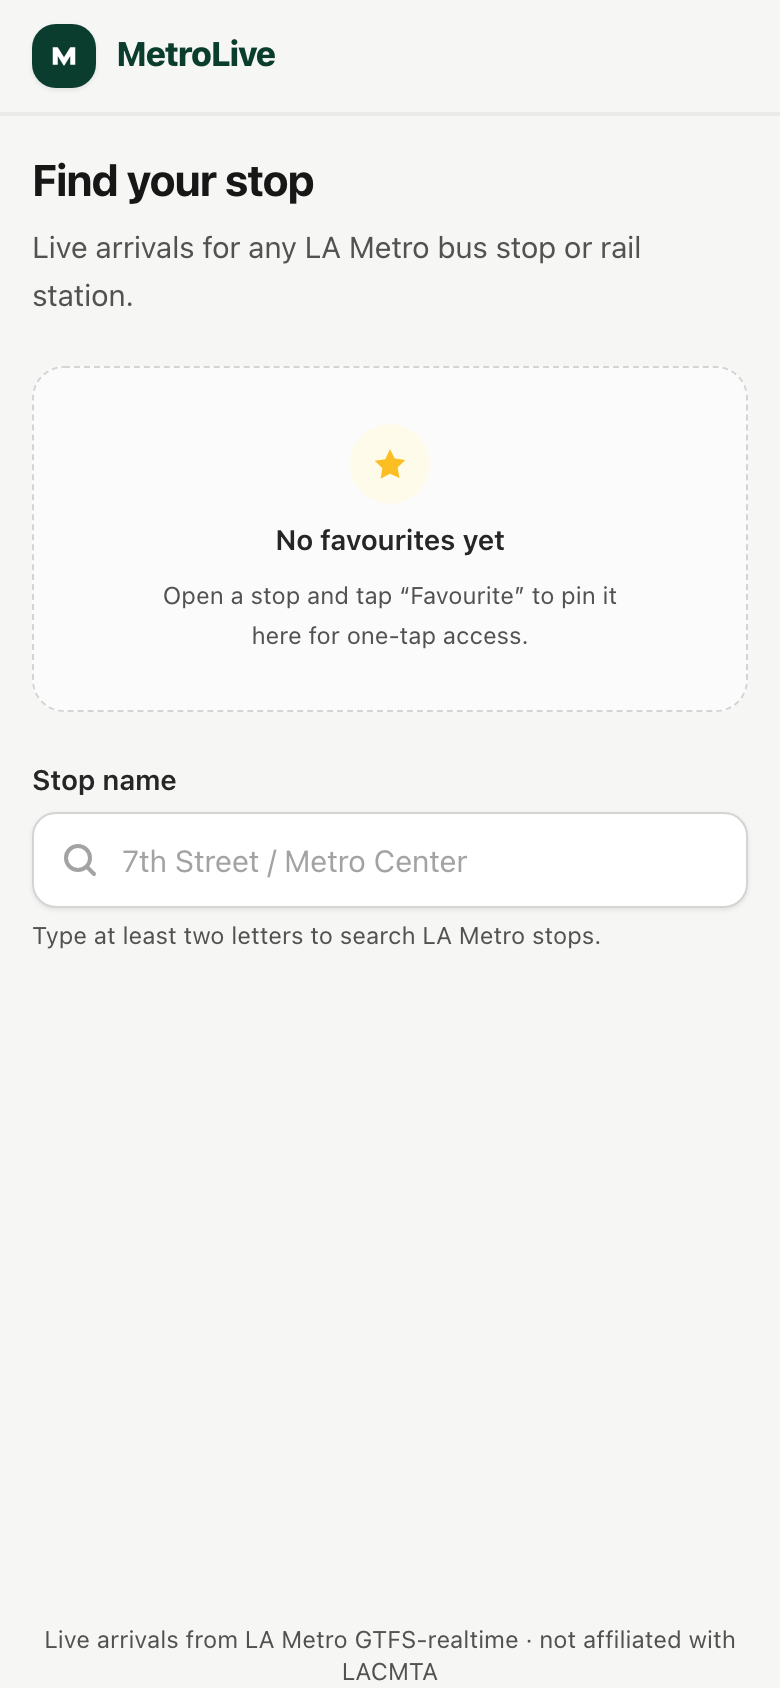
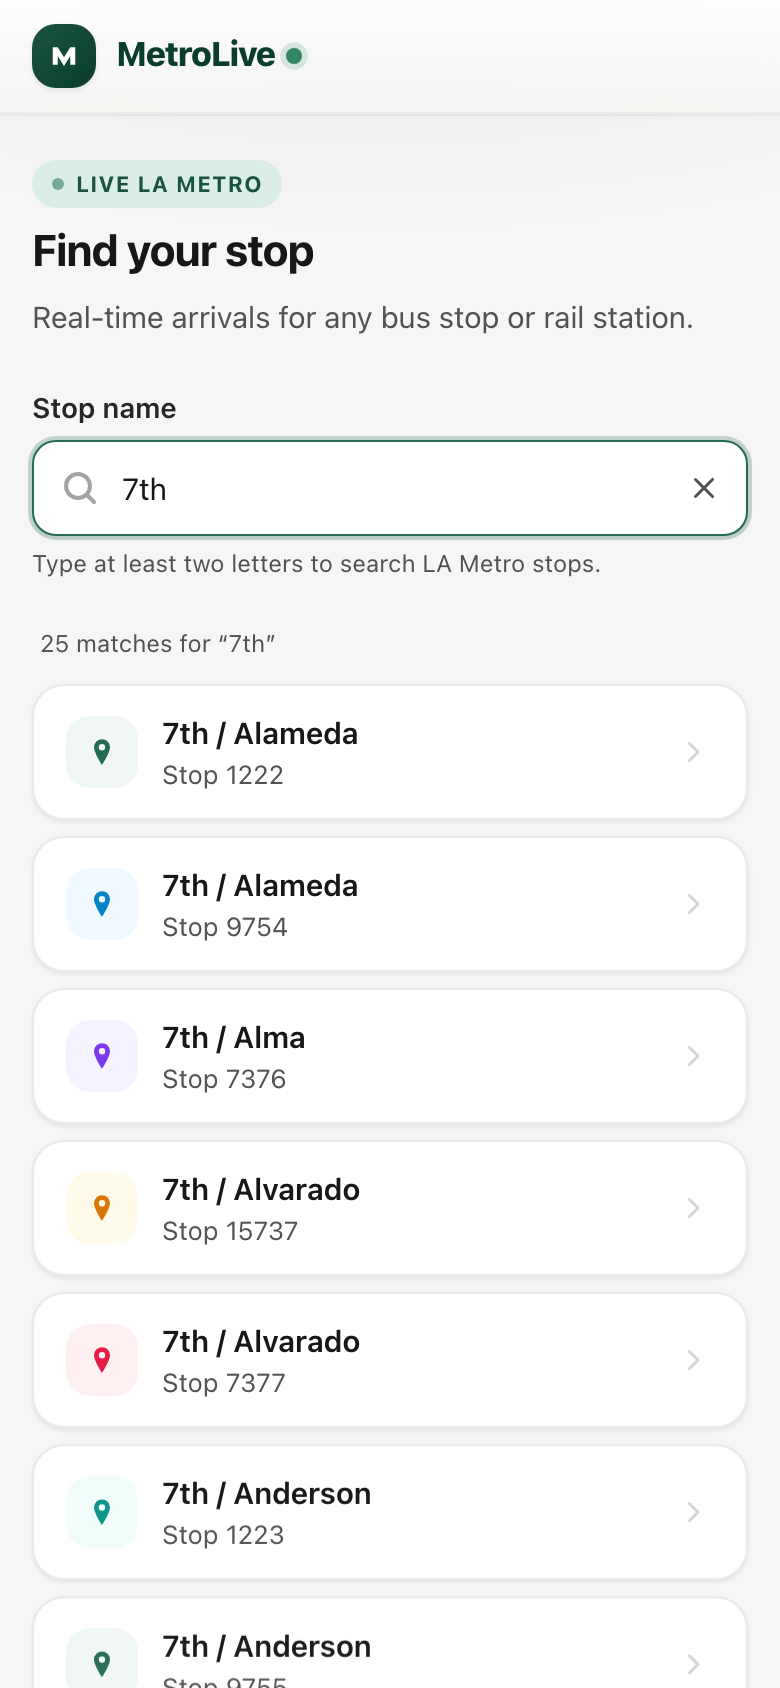
Add colour & motion: status accents, staggered lists, live pulse
Colour now carries meaning, kept soft:
- Each arrival row gets a coloured left accent bar by status
  (rose/emerald/sky/neutral); status pills regain their dot.
- Countdown turns brand-green when a vehicle is <= 3 min away.
- Search-result pins cycle through six pastel tints for visual rhythm.
- Header logo is a subtle brand gradient; primary Button is a soft
  gradient; a "Live LA Metro" pill + a pulsing dot by the wordmark.
- Faint brand radial glow behind the page header.

Motion (all disabled under prefers-reduced-motion):
- Shimmering skeleton rows for the arrivals first-load (replaces the
  spinner card; keeps an sr-only "Loading arrivals…").
- Staggered rise-in for search results, favourites, and arrival rows.
- Card hover lift + chevron nudge; button/favourite press scale;
  star "pop" when a stop is favourited.

New: src/components/Skeleton.tsx. tailwind: rise/pop/shimmer/pulse-soft
keyframes, card-hover shadow. Lighthouse unchanged (100/99 perf,
100/100 a11y, 100 BP/SEO, CLS 0). 78 tests + e2e green.

diff --git a/src/routes/RootLayout.tsx b/src/routes/RootLayout.tsx
@@ -4,7 +4,7 @@ function LogoMark() {
   return (
     <span
       aria-hidden="true"
-      className="grid h-8 w-8 place-items-center rounded-xl bg-brand-900 text-white shadow-card"
+      className="grid h-8 w-8 place-items-center rounded-xl bg-gradient-to-br from-brand-700 to-brand-900 text-white shadow-card"
     >
       <svg viewBox="0 0 32 32" className="h-5 w-5" fill="currentColor" aria-hidden="true">
         <path d="M7 23V9h4l5 8 5-8h4v14h-4v-7l-5 8-5-8v7z" />
@@ -13,9 +13,24 @@ function LogoMark() {
   );
 }
 
+function LiveDot() {
+  return (
+    <span className="relative ml-1.5 flex h-2 w-2" title="Live data">
+      <span className="absolute inline-flex h-full w-full animate-ping rounded-full bg-brand-400 opacity-75" />
+      <span className="relative inline-flex h-2 w-2 rounded-full bg-brand-500" />
+      <span className="sr-only">live</span>
+    </span>
+  );
+}
+
 export function RootLayout() {
   return (
-    <div className="flex min-h-dvh flex-col bg-page">
+    <div className="relative flex min-h-dvh flex-col bg-page">
+      <div
+        aria-hidden="true"
+        className="pointer-events-none absolute inset-x-0 top-0 h-72 bg-[radial-gradient(42rem_20rem_at_50%_-7rem,rgba(37,107,82,0.12),transparent_72%)]"
+      />
+
       <a
         href="#main"
         className="sr-only focus:not-sr-only focus:absolute focus:left-3 focus:top-3 focus:z-30 focus:rounded-lg focus:bg-brand-900 focus:px-3 focus:py-2 focus:text-sm focus:font-semibold focus:text-white"
@@ -23,21 +38,22 @@ export function RootLayout() {
         Skip to content
       </a>
 
-      <header className="safe-t sticky top-0 z-20 border-b border-neutral-200/70 bg-page/80 shadow-header backdrop-blur-md">
-        <div className="mx-auto flex w-full max-w-md items-center gap-2.5 px-4 py-3">
+      <header className="safe-t sticky top-0 z-20 border-b border-neutral-200/70 bg-gradient-to-b from-white/85 to-page/70 shadow-header backdrop-blur-md">
+        <div className="mx-auto flex w-full max-w-md items-center px-4 py-3">
           <Link
             to="/"
             className="flex items-center gap-2.5 rounded-lg focus-visible:ring-2 focus-visible:ring-brand-600 focus-visible:ring-offset-2"
           >
             <LogoMark />
-            <span className="text-[1.0625rem] font-extrabold tracking-tight text-brand-900">
+            <span className="flex items-center text-[1.0625rem] font-extrabold tracking-tight text-brand-900">
               MetroLive
+              <LiveDot />
             </span>
           </Link>
         </div>
       </header>
 
-      <main id="main" className="mx-auto w-full max-w-md flex-1 px-4 py-5">
+      <main id="main" className="relative z-10 mx-auto w-full max-w-md flex-1 px-4 py-5">
         <Outlet />
       </main>
 

diff --git a/src/components/StopResultList.tsx b/src/components/StopResultList.tsx
@@ -7,16 +7,34 @@ interface StopResultListProps {
   labelledBy?: string;
 }
 
+/** Rotating soft tints for the pin marker — purely decorative colour variety. */
+const PIN_TINTS = [
+  'bg-brand-50 text-brand-600 group-hover:bg-brand-100',
+  'bg-sky-50 text-sky-600 group-hover:bg-sky-100',
+  'bg-violet-50 text-violet-600 group-hover:bg-violet-100',
+  'bg-amber-50 text-amber-600 group-hover:bg-amber-100',
+  'bg-rose-50 text-rose-600 group-hover:bg-rose-100',
+  'bg-teal-50 text-teal-600 group-hover:bg-teal-100',
+];
+
 export function StopResultList({ stops, labelledBy }: StopResultListProps) {
   return (
     <ul role="list" aria-labelledby={labelledBy} className="flex flex-col gap-2">
-      {stops.map((stop) => (
-        <li key={stop.id}>
+      {stops.map((stop, index) => (
+        <li
+          key={stop.id}
+          className="animate-rise"
+          style={{ animationDelay: `${Math.min(index, 10) * 35}ms` }}
+        >
           <Link
             to={`/stop/${encodeURIComponent(stop.id)}`}
-            className="group flex items-center gap-3 rounded-2xl border border-neutral-200/80 bg-white px-4 py-3 shadow-card transition-colors hover:border-brand-300 hover:bg-brand-50/50 focus-visible:ring-2 focus-visible:ring-brand-600 focus-visible:ring-offset-2"
+            className="group flex items-center gap-3 rounded-2xl border border-neutral-200/80 bg-white px-4 py-3 shadow-card transition-all hover:-translate-y-px hover:border-brand-300 hover:shadow-card-hover active:translate-y-0 active:shadow-card focus-visible:ring-2 focus-visible:ring-brand-600 focus-visible:ring-offset-2"
           >
-            <span className="grid h-9 w-9 shrink-0 place-items-center rounded-xl bg-brand-50 text-brand-600 transition-colors group-hover:bg-brand-100">
+            <span
+              className={`grid h-9 w-9 shrink-0 place-items-center rounded-xl transition-colors ${
+                PIN_TINTS[index % PIN_TINTS.length] ?? 'bg-brand-50 text-brand-600'
+              }`}
+            >
               <svg viewBox="0 0 20 20" className="h-4 w-4" aria-hidden="true" fill="currentColor">
                 <path d="M10 2a5 5 0 0 0-5 5c0 3.5 5 11 5 11s5-7.5 5-11a5 5 0 0 0-5-5Zm0 7a2 2 0 1 1 0-4 2 2 0 0 1 0 4Z" />
               </svg>
@@ -29,7 +47,7 @@ export function StopResultList({ stops, labelledBy }: StopResultListProps) {
             </span>
             <svg
               viewBox="0 0 20 20"
-              className="h-5 w-5 shrink-0 text-neutral-300 transition-colors group-hover:text-brand-500"
+              className="h-5 w-5 shrink-0 text-neutral-300 transition-all group-hover:translate-x-0.5 group-hover:text-brand-500"
               aria-hidden="true"
               fill="currentColor"
             >

diff --git a/src/components/ArrivalRow.tsx b/src/components/ArrivalRow.tsx
@@ -1,7 +1,7 @@
 import { memo } from 'react';
 
 import { minutesUntil } from '../lib/format';
-import type { Arrival } from '../types/transit';
+import type { Arrival, ArrivalStatus } from '../types/transit';
 import { DelayStatusBadge } from './DelayStatusBadge';
 import { RouteBadge } from './RouteBadge';
 
@@ -9,6 +9,13 @@ interface ArrivalRowProps {
   arrival: Arrival;
   now: number;
 }
+
+const ACCENT: Record<ArrivalStatus, string> = {
+  early: 'bg-sky-400',
+  ontime: 'bg-emerald-400',
+  late: 'bg-rose-400',
+  unknown: 'bg-neutral-300',
+};
 
 function Countdown({ iso, now }: { iso: string | null; now: number }) {
   const mins = minutesUntil(iso, now);
@@ -18,12 +25,16 @@ function Countdown({ iso, now }: { iso: string | null; now: number }) {
   }
   if (mins <= 0) {
     return (
-      <span className="rounded-lg bg-brand-50 px-2 py-1 text-sm font-bold text-brand-800">Due</span>
+      <span className="rounded-lg bg-brand-100 px-2 py-1 text-sm font-bold text-brand-800">Due</span>
     );
   }
   return (
     <span className="flex items-baseline gap-1">
-      <span className="text-[1.375rem] font-bold leading-none tracking-tight text-neutral-900 tabular-nums">
+      <span
+        className={`text-[1.375rem] font-bold leading-none tracking-tight tabular-nums ${
+          mins <= 3 ? 'text-brand-700' : 'text-neutral-900'
+        }`}
+      >
         {mins}
       </span>
       <span className="text-xs font-medium text-neutral-500">min</span>
@@ -37,8 +48,12 @@ export const ArrivalRow = memo(function ArrivalRow({ arrival, now }: ArrivalRowP
   return (
     <div
       aria-hidden="true"
-      className="flex h-full items-center gap-3 rounded-2xl border border-neutral-200/80 bg-white px-3.5 shadow-card"
+      className="relative flex h-full items-center gap-3 overflow-hidden rounded-2xl border border-neutral-200/80 bg-white px-3.5 shadow-card transition-shadow hover:shadow-card-hover"
     >
+      <span
+        className={`absolute inset-y-3 left-0 w-1 rounded-full ${ACCENT[arrival.status]}`}
+      />
+
       <RouteBadge routeId={arrival.routeId} routeName={arrival.routeName} />
 
       <div className="min-w-0 flex-1">

diff --git a/src/components/ArrivalsList.tsx b/src/components/ArrivalsList.tsx
@@ -4,8 +4,8 @@ import { useRef } from 'react';
 import { arrivalSummary } from '../lib/format';
 import type { Arrival } from '../types/transit';
 import { ArrivalRow } from './ArrivalRow';
+import { ArrivalRowSkeleton } from './Skeleton';
 import { Button } from './Button';
-import { Spinner } from './Spinner';
 import { StateMessage } from './StateMessage';
 
 const ROW_HEIGHT = 80;
@@ -49,11 +49,14 @@ export function ArrivalsList({
       className="min-h-[18rem]"
     >
       {isPending ? (
-        <StateMessage
-          icon={<Spinner label="Loading arrivals" />}
-          title="Loading arrivals…"
-          description="Fetching the latest predictions for this stop."
-        />
+        <div role="status">
+          <span className="sr-only">Loading arrivals…</span>
+          <div className="flex flex-col gap-2.5" aria-hidden="true">
+            {[0, 1, 2, 3].map((i) => (
+              <ArrivalRowSkeleton key={i} delayMs={i * 80} />
+            ))}
+          </div>
+        </div>
       ) : isError && rows.length === 0 ? (
         <StateMessage
           tone="error"
@@ -100,7 +103,12 @@ export function ArrivalsList({
                     className="absolute left-0 top-0 w-full"
                     style={{ height: `${item.size}px`, transform: `translateY(${item.start}px)` }}
                   >
-                    <ArrivalRow arrival={arrival} now={now} />
+                    <div
+                      className="h-full animate-rise"
+                      style={{ animationDelay: `${Math.min(item.index, 6) * 45}ms` }}
+                    >
+                      <ArrivalRow arrival={arrival} now={now} />
+                    </div>
                   </li>
                 );
               })}

diff --git a/tailwind.config.js b/tailwind.config.js
@@ -32,17 +32,30 @@ export default {
       },
       boxShadow: {
         card: '0 1px 2px 0 rgb(16 24 32 / 0.04), 0 1px 3px 0 rgb(16 24 32 / 0.05)',
-        'card-hover': '0 4px 12px -2px rgb(16 24 32 / 0.10), 0 2px 4px -1px rgb(16 24 32 / 0.06)',
+        'card-hover': '0 6px 20px -4px rgb(16 24 32 / 0.12), 0 2px 6px -2px rgb(16 24 32 / 0.07)',
         header: '0 1px 0 0 rgb(16 24 32 / 0.05)',
+        glow: '0 0 0 3px rgb(37 107 82 / 0.12)',
       },
       keyframes: {
-        'fade-in': {
-          from: { opacity: '0', transform: 'translateY(4px)' },
+        'fade-in': { from: { opacity: '0' }, to: { opacity: '1' } },
+        rise: {
+          from: { opacity: '0', transform: 'translateY(8px)' },
           to: { opacity: '1', transform: 'translateY(0)' },
         },
+        pop: {
+          '0%': { transform: 'scale(0.5)' },
+          '55%': { transform: 'scale(1.18)' },
+          '100%': { transform: 'scale(1)' },
+        },
+        shimmer: { '100%': { transform: 'translateX(100%)' } },
+        'pulse-soft': { '0%, 100%': { opacity: '1' }, '50%': { opacity: '0.55' } },
       },
       animation: {
-        'fade-in': 'fade-in 0.18s ease-out both',
+        'fade-in': 'fade-in 0.2s ease-out both',
+        rise: 'rise 0.34s cubic-bezier(0.22, 1, 0.36, 1) both',
+        pop: 'pop 0.3s ease-out both',
+        shimmer: 'shimmer 1.6s infinite',
+        'pulse-soft': 'pulse-soft 2s ease-in-out infinite',
       },
     },
   },

diff --git a/src/components/FavoritesList.tsx b/src/components/FavoritesList.tsx
@@ -42,11 +42,15 @@ export function FavoritesList() {
         Favourites
       </h2>
       <ul role="list" className="flex flex-col gap-2">
-        {favorites.map((favorite) => (
-          <li key={favorite.id} className="flex items-stretch gap-2">
+        {favorites.map((favorite, index) => (
+          <li
+            key={favorite.id}
+            className="flex animate-rise items-stretch gap-2"
+            style={{ animationDelay: `${Math.min(index, 8) * 35}ms` }}
+          >
             <Link
               to={`/stop/${encodeURIComponent(favorite.id)}`}
-              className="flex flex-1 items-center gap-2.5 rounded-2xl border border-neutral-200/80 bg-white px-3.5 py-3 shadow-card transition-colors hover:border-brand-300 hover:bg-brand-50/50 focus-visible:ring-2 focus-visible:ring-brand-600 focus-visible:ring-offset-2"
+              className="flex flex-1 items-center gap-2.5 rounded-2xl border border-neutral-200/80 bg-white px-3.5 py-3 shadow-card transition-all hover:-translate-y-px hover:border-brand-300 hover:shadow-card-hover active:translate-y-0 focus-visible:ring-2 focus-visible:ring-brand-600 focus-visible:ring-offset-2"
             >
               <StarIcon className="h-4 w-4 shrink-0 text-amber-400" />
               <span className="truncate text-[0.9375rem] font-semibold text-neutral-900">

diff --git a/src/components/FavoriteToggle.tsx b/src/components/FavoriteToggle.tsx
@@ -16,15 +16,16 @@ export function FavoriteToggle({ stop, className = '' }: FavoriteToggleProps) {
       aria-pressed={isFavorite}
       aria-label={isFavorite ? `Remove ${stop.name} from favourites` : `Add ${stop.name} to favourites`}
       onClick={() => toggle(stop)}
-      className={`inline-flex h-10 items-center gap-1.5 rounded-xl px-3 text-sm font-semibold transition-colors focus-visible:ring-2 focus-visible:ring-brand-600 focus-visible:ring-offset-2 ${
+      className={`inline-flex h-10 items-center gap-1.5 rounded-xl px-3 text-sm font-semibold transition-all active:scale-95 focus-visible:ring-2 focus-visible:ring-brand-600 focus-visible:ring-offset-2 ${
         isFavorite
           ? 'bg-amber-50 text-amber-800 ring-1 ring-inset ring-amber-300'
           : 'bg-white text-neutral-700 ring-1 ring-inset ring-neutral-300 hover:bg-neutral-50'
       } ${className}`}
     >
       <svg
+        key={isFavorite ? 'on' : 'off'}
         viewBox="0 0 20 20"
-        className={`h-4 w-4 transition-transform ${isFavorite ? 'scale-110 text-amber-500' : 'text-neutral-400'}`}
+        className={`h-4 w-4 animate-pop ${isFavorite ? 'text-amber-500' : 'text-neutral-400'}`}
         aria-hidden="true"
         fill={isFavorite ? 'currentColor' : 'none'}
         stroke="currentColor"

diff --git a/src/components/Button.tsx b/src/components/Button.tsx
@@ -5,7 +5,8 @@ type ButtonProps = ButtonHTMLAttributes<HTMLButtonElement> & {
 };
 
 const VARIANTS: Record<NonNullable<ButtonProps['variant']>, string> = {
-  primary: 'bg-brand-900 text-white shadow-card hover:bg-brand-800 active:bg-brand-900',
+  primary:
+    'bg-gradient-to-b from-brand-700 to-brand-900 text-white shadow-card hover:from-brand-600 hover:to-brand-800',
   secondary:
     'bg-white text-neutral-800 ring-1 ring-inset ring-neutral-300 hover:bg-neutral-50 active:bg-neutral-100',
 };
@@ -14,7 +15,7 @@ export function Button({ variant = 'primary', className = '', type = 'button', .
   return (
     <button
       type={type}
-      className={`inline-flex h-11 items-center justify-center gap-2 rounded-xl px-4 text-sm font-semibold transition-colors focus-visible:ring-2 focus-visible:ring-brand-600 focus-visible:ring-offset-2 disabled:cursor-not-allowed disabled:opacity-60 ${VARIANTS[variant]} ${className}`}
+      className={`inline-flex h-11 items-center justify-center gap-2 rounded-xl px-4 text-sm font-semibold transition-all active:scale-[0.97] focus-visible:ring-2 focus-visible:ring-brand-600 focus-visible:ring-offset-2 disabled:cursor-not-allowed disabled:opacity-60 ${VARIANTS[variant]} ${className}`}
       {...rest}
     />
   );

diff --git a/src/components/Skeleton.tsx b/src/components/Skeleton.tsx
@@ -1,0 +1,29 @@
+interface BarProps {
+  className?: string;
+}
+
+/** A single shimmering placeholder bar. */
+export function SkeletonBar({ className = '' }: BarProps) {
+  return (
+    <span className={`relative block overflow-hidden rounded bg-neutral-200/70 ${className}`}>
+      <span className="absolute inset-0 -translate-x-full bg-gradient-to-r from-transparent via-white/70 to-transparent animate-shimmer" />
+    </span>
+  );
+}
+
+/** Placeholder that mirrors an <ArrivalRow> while the first fetch is in flight. */
+export function ArrivalRowSkeleton({ delayMs = 0 }: { delayMs?: number }) {
+  return (
+    <div
+      className="flex h-20 items-center gap-3 rounded-2xl border border-neutral-200/80 bg-white px-3.5 shadow-card animate-rise"
+      style={{ animationDelay: `${delayMs}ms` }}
+    >
+      <SkeletonBar className="h-8 w-11 rounded-lg" />
+      <div className="flex-1 space-y-2">
+        <SkeletonBar className="h-3.5 w-2/3" />
+        <SkeletonBar className="h-3 w-16 rounded-full" />
+      </div>
+      <SkeletonBar className="h-6 w-9" />
+    </div>
+  );
+}

diff --git a/src/routes/SearchRoute.tsx b/src/routes/SearchRoute.tsx
@@ -19,13 +19,17 @@ export function SearchRoute() {
   const results = query.data ?? [];
 
   return (
-    <div className="flex flex-col gap-6">
+    <div className="flex animate-fade-in flex-col gap-6">
       <header>
-        <h1 className="text-[1.375rem] font-bold leading-tight tracking-[-0.015em] text-neutral-900">
+        <span className="inline-flex items-center gap-1.5 rounded-full bg-brand-100 px-2.5 py-1 text-[0.6875rem] font-bold uppercase tracking-wider text-brand-700">
+          <span className="h-1.5 w-1.5 rounded-full bg-brand-500 animate-pulse-soft" aria-hidden="true" />
+          Live LA Metro
+        </span>
+        <h1 className="mt-2 text-[1.375rem] font-bold leading-tight tracking-[-0.015em] text-neutral-900">
           Find your stop
         </h1>
         <p className="mt-1.5 text-[0.9375rem] leading-relaxed text-neutral-600">
-          Live arrivals for any LA Metro bus stop or rail station.
+          Real-time arrivals for any bus stop or rail station.
         </p>
       </header>
 

diff --git a/src/components/DelayStatusBadge.tsx b/src/components/DelayStatusBadge.tsx
@@ -10,6 +10,13 @@ const TONE: Record<ArrivalStatus, string> = {
   unknown: 'bg-neutral-100 text-neutral-600',
 };
 
+const DOT: Record<ArrivalStatus, string> = {
+  early: 'bg-sky-500',
+  ontime: 'bg-emerald-500',
+  late: 'bg-rose-500',
+  unknown: 'bg-neutral-400',
+};
+
 interface DelayStatusBadgeProps {
   status: ArrivalStatus;
   delaySeconds: number;
@@ -21,8 +28,9 @@ export const DelayStatusBadge = memo(function DelayStatusBadge({
 }: DelayStatusBadgeProps) {
   return (
     <span
-      className={`inline-flex items-center rounded-full px-2 py-0.5 text-[0.6875rem] font-semibold ${TONE[status]}`}
+      className={`inline-flex items-center gap-1.5 rounded-full px-2 py-0.5 text-[0.6875rem] font-semibold ${TONE[status]}`}
     >
+      <span className={`h-1.5 w-1.5 rounded-full ${DOT[status]}`} aria-hidden="true" />
       <span className="sr-only">{statusLabel(status)}: </span>
       {delayLabel({ status, delaySeconds })}
     </span>

diff --git a/src/routes/StopRoute.tsx b/src/routes/StopRoute.tsx
@@ -37,7 +37,7 @@ export function StopRoute() {
   }, [arrivalsQuery.data?.arrivals]);
 
   return (
-    <div className="flex flex-col gap-4">
+    <div className="flex animate-fade-in flex-col gap-4">
       <Link
         to="/"
         className="inline-flex w-fit items-center gap-1 rounded-lg py-0.5 text-sm font-medium text-brand-700 transition-colors hover:text-brand-800 focus-visible:ring-2 focus-visible:ring-brand-600 focus-visible:ring-offset-2"
